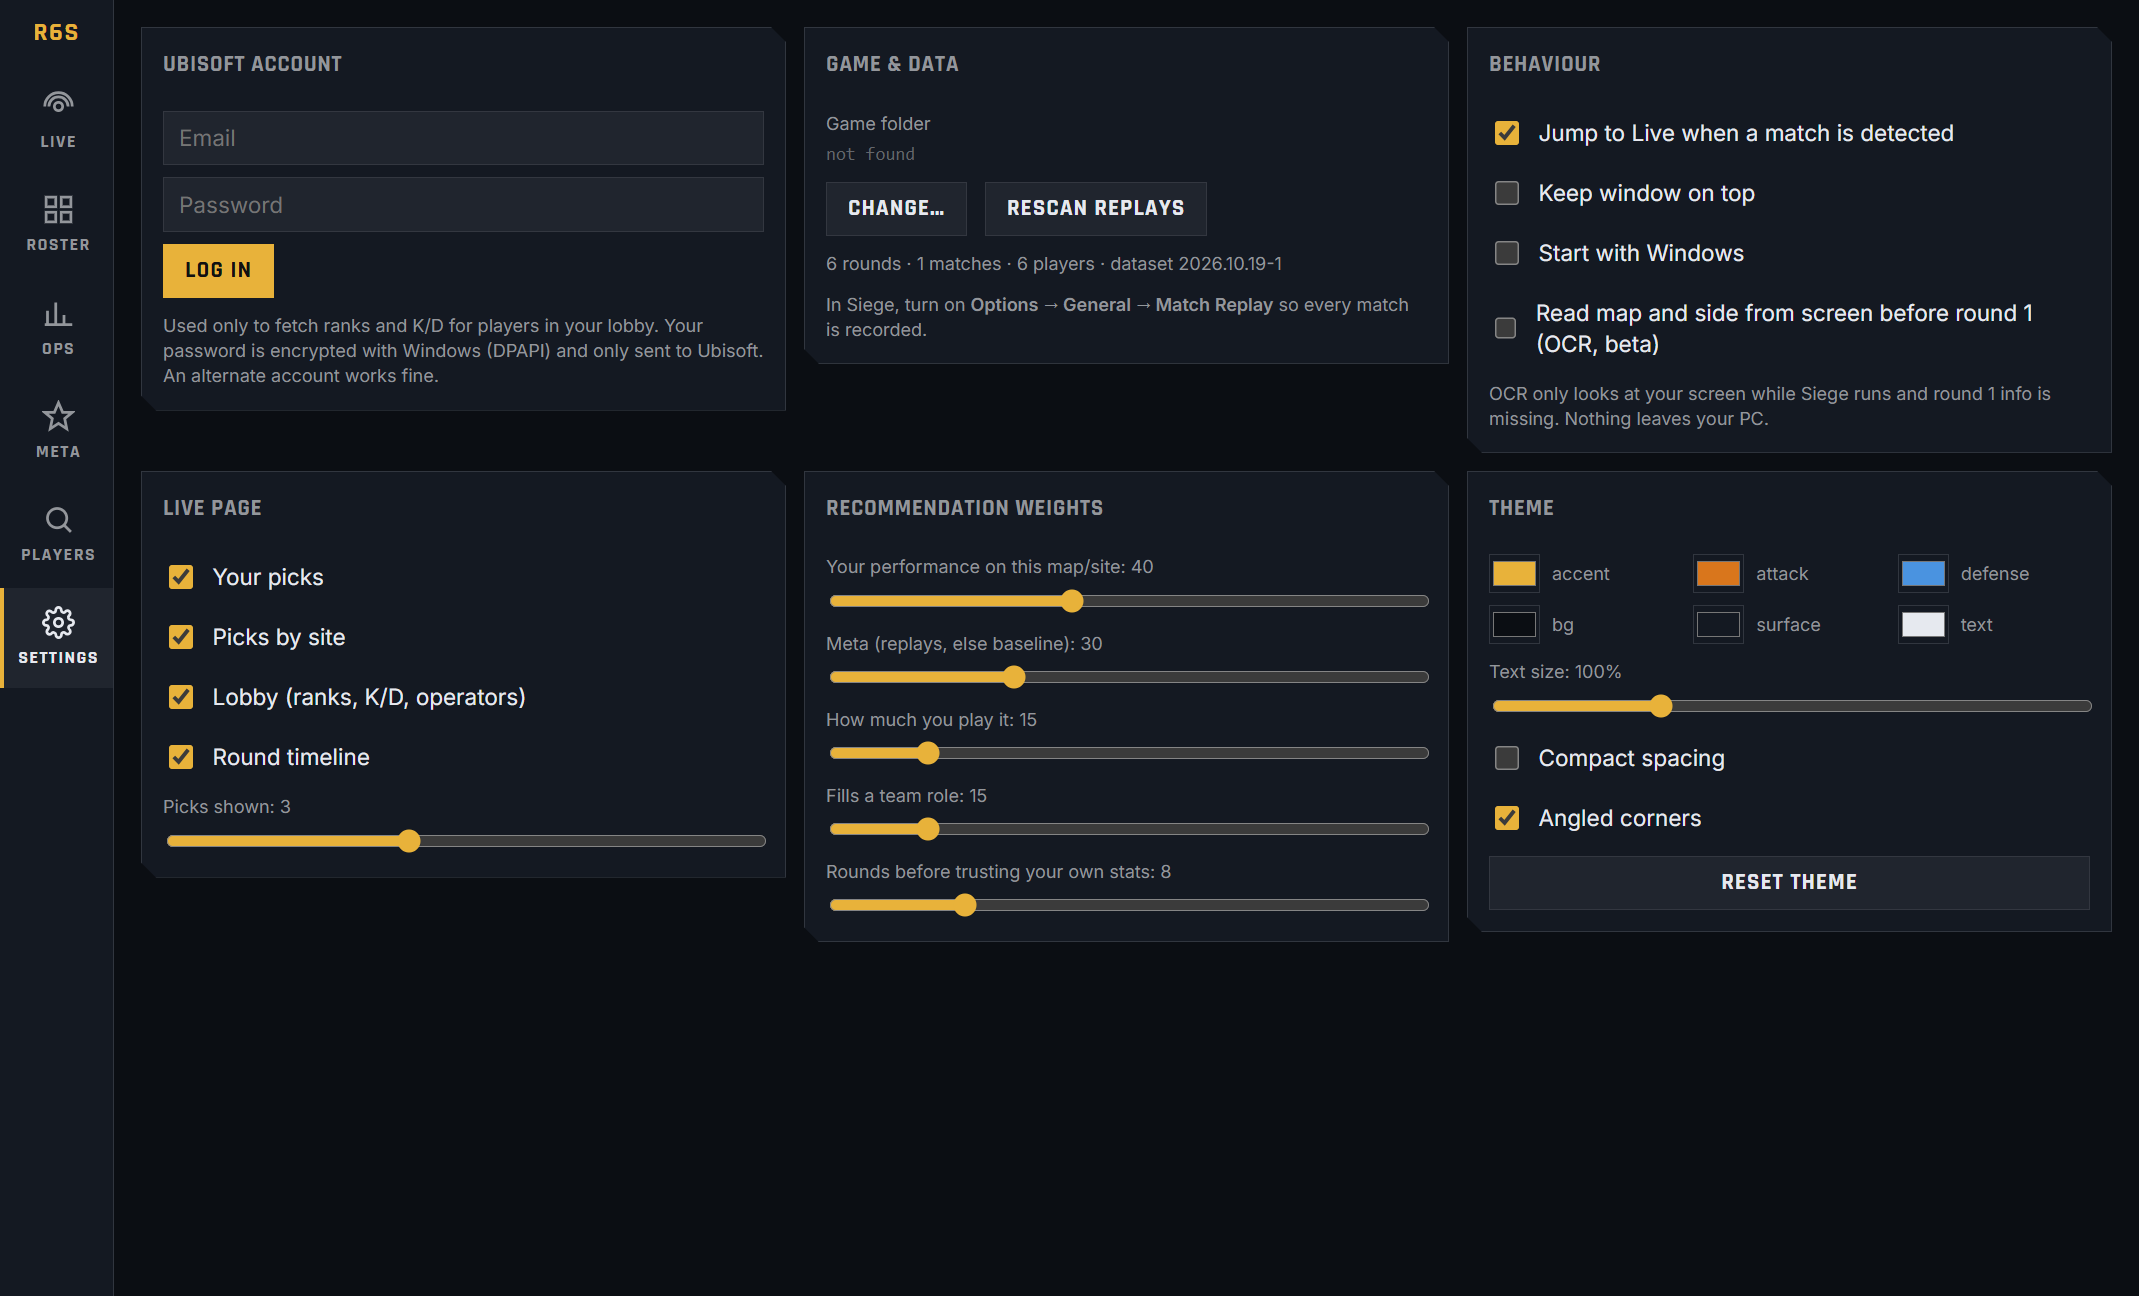
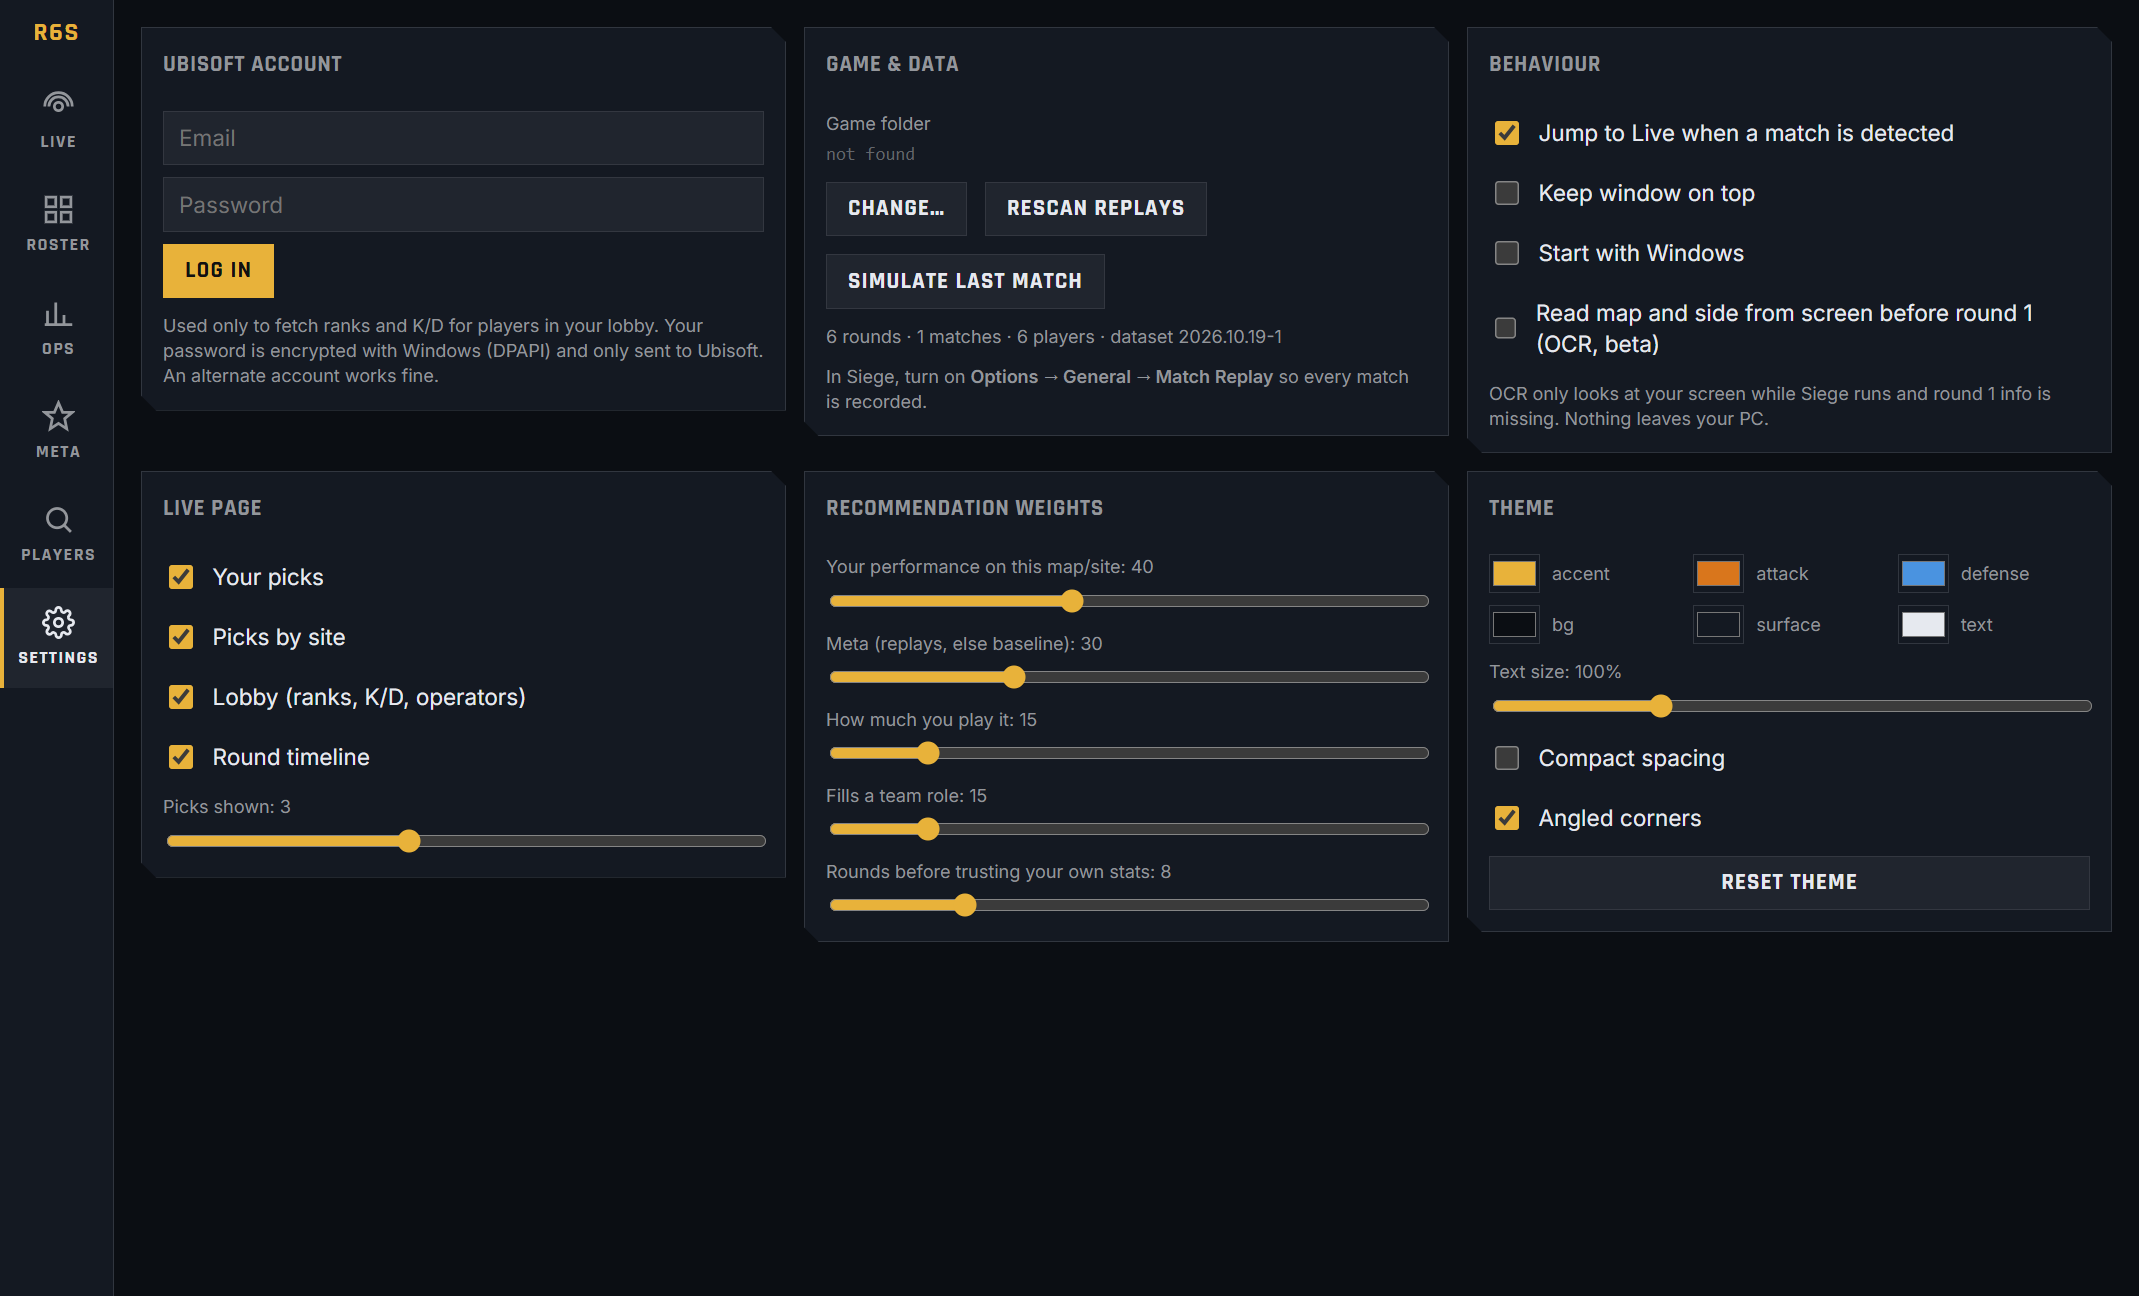
Simulate last match (test the Live page without playing), round-1 lobby message, isolated smoke profile

Changed region(s): [[0.3703, 0.1852, 0.648, 0.3395]]

diff --git a/src/main/live/engine.ts b/src/main/live/engine.ts
@@ -141,7 +141,7 @@ export class LiveEngine extends EventEmitter<{ state: [LiveState]; ingested: [nu
     // MatchReplay may only appear after the user enables replays in game: start watching then.
     if (!this.watcher) { const root = this.root(); if (root && existsSync(root)) { this.restartWatcher(); void this.rescan() } }
     const running = await isGameRunning()
-    if (running === this.gameRunning) return
+    if (running === this.gameRunning || this.simulating) return
     this.gameRunning = running
     if (!running) this.override = undefined
     this.push()
@@ -162,6 +162,46 @@ export class LiveEngine extends EventEmitter<{ state: [LiveState]; ingested: [nu
     if (latest) await this.showMatch(latest.matchId, true)
   }
 
+  private simulating = false
+
+  /** Replays the latest recorded match into the Live page round by round (no game needed).
+   *  Uses the real lobby service, so with a Ubisoft login it fetches real ranks. */
+  async simulate(stepMs = 4000): Promise<boolean> {
+    const latest = this.ctx.db.latestMatch()
+    if (!latest || this.simulating) return false
+    this.simulating = true
+    const sleep = () => new Promise((r) => setTimeout(r, stepMs))
+    try {
+      const rounds = this.ctx.db.roundsOfMatch(latest.matchId)
+      const first = rounds[0]!
+      const me = this.ctx.me() ?? first.recordingProfileId
+      const mySide = first.players.find((p) => p.profileId === me || p.profileId === first.recordingProfileId)?.side ?? 'attack'
+      // Round 1: what OCR would report at operator select.
+      this.matchId = null
+      this.cards.clear()
+      this.override = { mapKey: first.mapKey, side: mySide }
+      this.push([], 'loading')
+      await sleep()
+      this.override = undefined
+      this.matchId = latest.matchId
+      for (let i = 1; i <= rounds.length; i++) {
+        const subset = rounds.slice(0, i)
+        this.push(subset, i < rounds.length ? 'match' : 'ended')
+        if (i === 1) {
+          const names = Object.fromEntries(rounds.flatMap((r) => r.players).map((p) => [p.profileId, p.username]))
+          const { cards, error } = await this.lobby.cards(Object.keys(names), names)
+          for (const c of cards) this.cards.set(c.profileId, c)
+          this.lobbyError = error ?? null
+          this.push(subset, 'match')
+        }
+        await sleep()
+      }
+      return true
+    } finally {
+      this.simulating = false
+    }
+  }
+
   /** Recompute recommendations after settings/roster changes. */
-  refresh(): void { this.push() }
+  refresh(): void { if (!this.simulating) this.push() }
 }

diff --git a/src/main/index.ts b/src/main/index.ts
@@ -20,7 +20,9 @@ import type { CatalogOverrides } from '../shared/catalog'
 import { API_METHODS, type AppStatus, type AuthResult, type RsApi, type Settings } from '../shared/ipc'
 
 const isSmoke = process.argv.includes('--smoke')
-if (!app.requestSingleInstanceLock()) app.quit()
+// Smoke/screenshot runs get their own profile so they never collide with an installed copy.
+if (isSmoke) app.setPath('userData', join(app.getPath('temp'), `rainbwstats-smoke-profile-${process.pid}`))
+else if (!app.requestSingleInstanceLock()) app.quit()
 
 let win: BrowserWindow | null = null
 let tray: Tray | null = null
@@ -128,6 +130,7 @@ app.whenReady().then(async () => {
       const me = ctx.me()
       return { card: cards[0] ?? null, history: db.rankHistory(id), encounters: me && me !== id ? db.encounters(id, me) : 0, error: e2 }
     },
+    simulate: () => engine.simulate(),
     rescan: async () => { await engine.rescan(); return status() },
     catalog: async () => ({ operators: [...(dataset.get().operators ?? []), ...(db.getJson<NonNullable<CatalogOverrides['operators']>>('learnedOperators') ?? [])], maps: dataset.get().maps }),
     pickGameDir: async () => {
@@ -160,6 +163,11 @@ app.whenReady().then(async () => {
           await new Promise((r) => setTimeout(r, 700))
           writeFileSync(join(shots, `${i + 1}-${label.toLowerCase()}.png`), (await win!.webContents.capturePage()).toPNG())
         }
+        // Round-1 state (as OCR would report it) via the simulator's first step.
+        void engine.simulate(60_000)
+        await js(`[...document.querySelectorAll('.nav button')].find(b => b.textContent.trim() === 'Live')?.click()`)
+        await new Promise((r) => setTimeout(r, 900))
+        writeFileSync(join(shots, '0-round1.png'), (await win!.webContents.capturePage()).toPNG())
       }
       clearTimeout(fail)
       console.log(ok ? `SMOKE OK rounds=${db.counts().rounds}` : 'SMOKE FAIL: app root missing')

diff --git a/src/renderer/src/pages/Live.tsx b/src/renderer/src/pages/Live.tsx
@@ -95,9 +95,13 @@ function Teams({ s }: { s: LiveState }) {
   return (
     <div className="panel">
       <h2>Lobby {s.lobbyError && <span className="sub warn">{s.lobbyError}</span>}</h2>
+      {!s.myTeam.length && !s.enemyTeam.length ? (
+        <div className="empty">Players, ranks and operators appear when round 1 ends.<br /><span className="small">Siege only writes the lobby to its replay file at the end of each round.</span></div>
+      ) : <>
       <TeamTable title="Your team" players={s.myTeam} />
       <div style={{ height: 10 }} />
       <TeamTable title="Enemy team" players={s.enemyTeam} />
+      </>}
     </div>
   )
 }
@@ -162,6 +166,12 @@ function Waiting({ live, status }: { live: LiveState; status: AppStatus | undefi
           <Item ok={st.loggedIn}>{st.loggedIn ? 'Ubisoft account connected (lobby ranks)' : 'Log in to Ubisoft in Settings for lobby ranks (optional)'}</Item>
           <Item ok={live.gameRunning}>{live.gameRunning ? 'Game detected' : 'Game not running'}</Item>
         </ul>
+      )}
+      {!!st?.matches && (
+        <div className="row" style={{ marginTop: 14 }}>
+          <button className="btn primary" onClick={() => void rs().simulate()}>Simulate last match</button>
+          <span className="small muted">Replays your most recent recorded match here, round by round. Log in first to see real lobby ranks.</span>
+        </div>
       )}
     </div>
   )

diff --git a/test/live.test.ts b/test/live.test.ts
@@ -83,3 +83,20 @@ describe.runIf(hasLocal)('live engine (simulated replay drops)', () => {
     console.log('file → state ms:', times.map((t) => t.toFixed(0)).join(', '))
   })
 })
+
+describe('match simulation', () => {
+  it('steps loading → match per round → ended, with lobby cards', async () => {
+    const db = openDb(':memory:')
+    for (const r of rounds) db.saveRound(r)
+    const lobby = { cards: async (ids: string[]) => ({ cards: ids.map((id) => ({ profileId: id, name: '', loaded: true, level: 1, hoursPlayed: 1, ranked: null, season: null })) }) } as unknown as LobbyService
+    const engine = new LiveEngine(ctxFor(db), lobby, () => null)
+    const seen: string[] = []
+    engine.on('state', (s) => seen.push(`${s.phase}:${s.rounds.length}`))
+    expect(await engine.simulate(0)).toBe(true)
+    expect(seen[0]).toBe('loading:0')
+    expect(seen).toContain('match:1')
+    expect(seen.at(-1)).toBe('ended:6')
+    expect(engine.state.myTeam[0]?.card?.loaded).toBe(true)
+    expect(engine.state.mapKey).toBe('plane')
+  })
+})

diff --git a/src/shared/ipc.ts b/src/shared/ipc.ts
@@ -133,6 +133,8 @@ export interface RsApi {
   lookupPlayer(name: string): Promise<PlayerLookup>
   rescan(): Promise<AppStatus>
   pickGameDir(): Promise<string | null>
+  /** Replays the last recorded match into the Live page round by round (testing without playing). */
+  simulate(): Promise<boolean>
   /** Dataset + learned operators, so the renderer catalog matches main. */
   catalog(): Promise<CatalogOverrides>
   onLive(cb: (s: LiveState) => void): () => void
@@ -140,5 +142,5 @@ export interface RsApi {
 
 export const API_METHODS = [
   'status', 'getSettings', 'setSettings', 'getLive', 'preview', 'login', 'submitTwoFactor', 'logout',
-  'opStats', 'meta', 'sites', 'seasons', 'lookupPlayer', 'rescan', 'pickGameDir', 'catalog'
+  'opStats', 'meta', 'sites', 'seasons', 'lookupPlayer', 'rescan', 'pickGameDir', 'catalog', 'simulate'
 ] as const satisfies readonly Exclude<keyof RsApi, 'onLive'>[]

diff --git a/src/renderer/src/pages/Settings.tsx b/src/renderer/src/pages/Settings.tsx
@@ -26,6 +26,7 @@ export function SettingsPage({ settings: s, update, status, refreshStatus }: { s
         <div className="row">
           <button className="btn" onClick={() => void rs().pickGameDir().then(refreshStatus)}>Change…</button>
           <button className="btn" onClick={() => void rs().rescan().then(refreshStatus)}>Rescan replays</button>
+          <button className="btn" onClick={() => void rs().simulate()} title="Replays your last match into the Live page">Simulate last match</button>
         </div>
         {status && <div className="small muted">{status.rounds} rounds · {status.matches} matches · {status.players} players · dataset {status.datasetVersion}</div>}
         <div className="small muted">In Siege, turn on <b>Options → General → Match Replay</b> so every match is recorded.</div>
